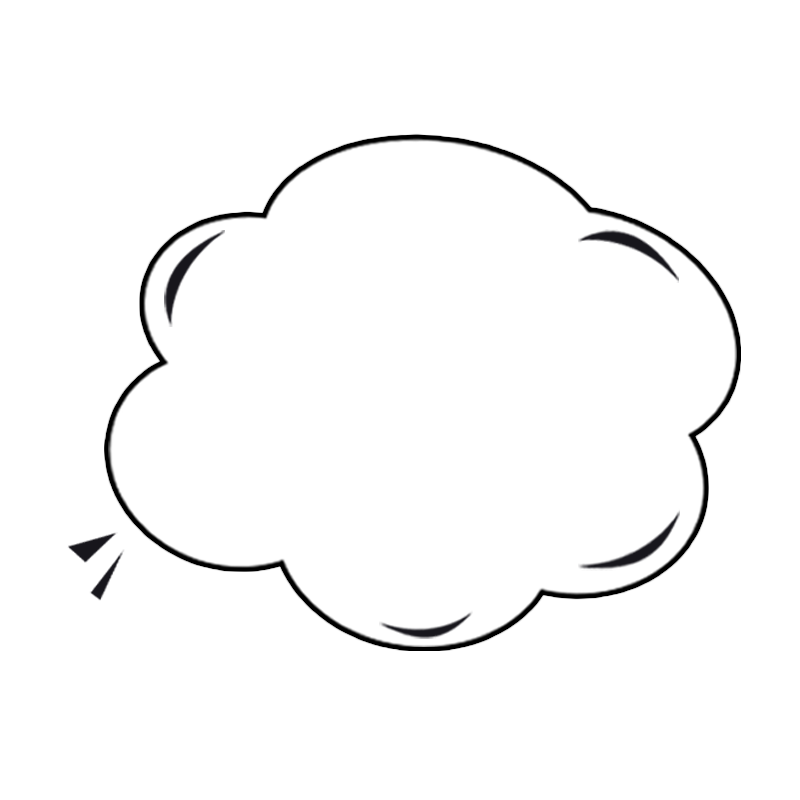
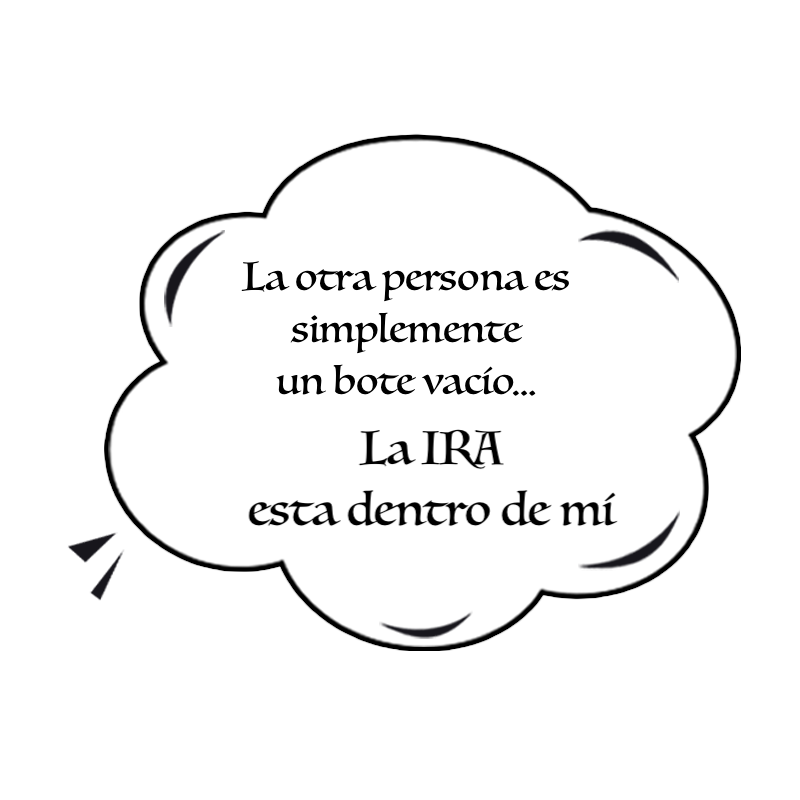
Scena 7

Changed region(s): [[0.3125, 0.3125, 0.7188, 0.5], [0.3125, 0.5312, 0.7812, 0.6562]]

diff --git a/styles.css b/styles.css
@@ -555,6 +555,13 @@ header{
 /*** Scena 7 **/
 .box7 {
   flex-grow: 1;
+  opacity: 0;
+
+  animation-name: appear;
+  animation-duration: 3s;
+  animation-timing-function: linear;
+  animation-delay: 58.7s;
+  animation-fill-mode: forwards;
 }
 
 .pensamiento3 img {
@@ -570,6 +577,6 @@ header{
   animation-name: sorprise;
   animation-duration: 4s;
   animation-timing-function: linear;
-  animation-delay: 1.7s;
+  animation-delay: 59.7s;
   animation-fill-mode: forwards;
 }
